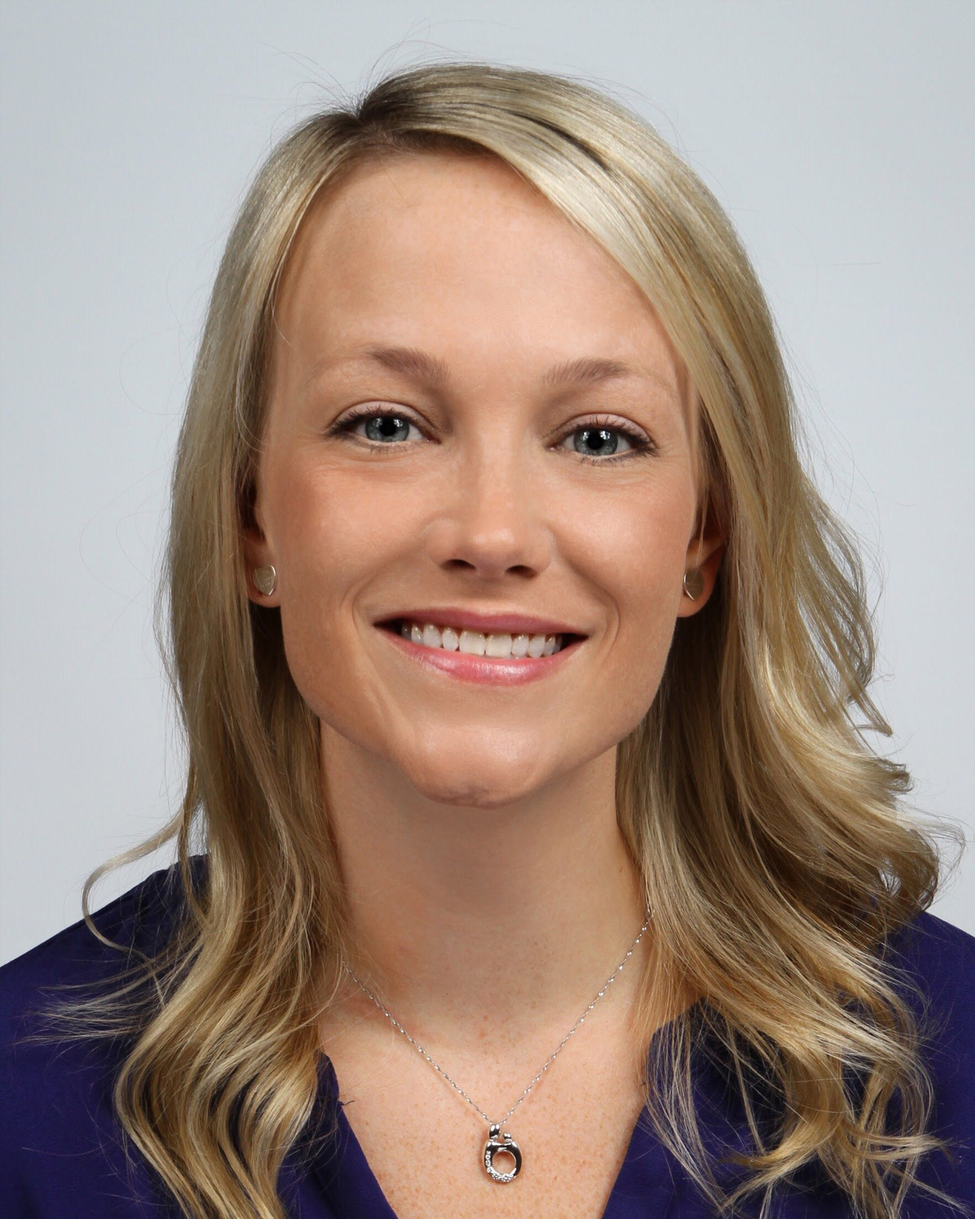
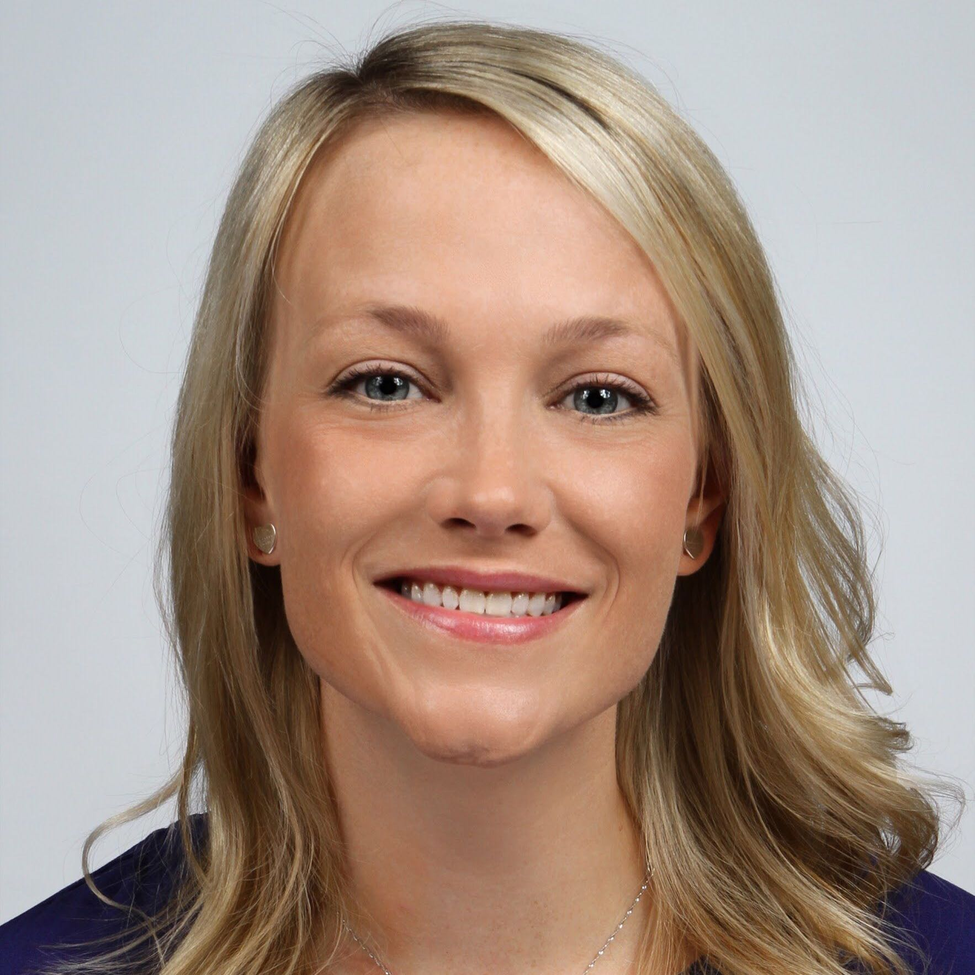
Add Gloria (mentor)

diff --git a/src/data/data.ts b/src/data/data.ts
@@ -198,6 +198,11 @@ export const MENTORS: Hero[] = [{
     title: 'Mentor',
     img: 'assets/images/mentors/jessica.jpg',
     twitter: 'jessica_k1ncaid'
+}, {
+    name: 'Gloria Highley',
+    title: 'Mentor',
+    img: 'assets/images/mentors/gloria.jpg',
+    twitter: 'gloriahigley'
 }];
 
 
